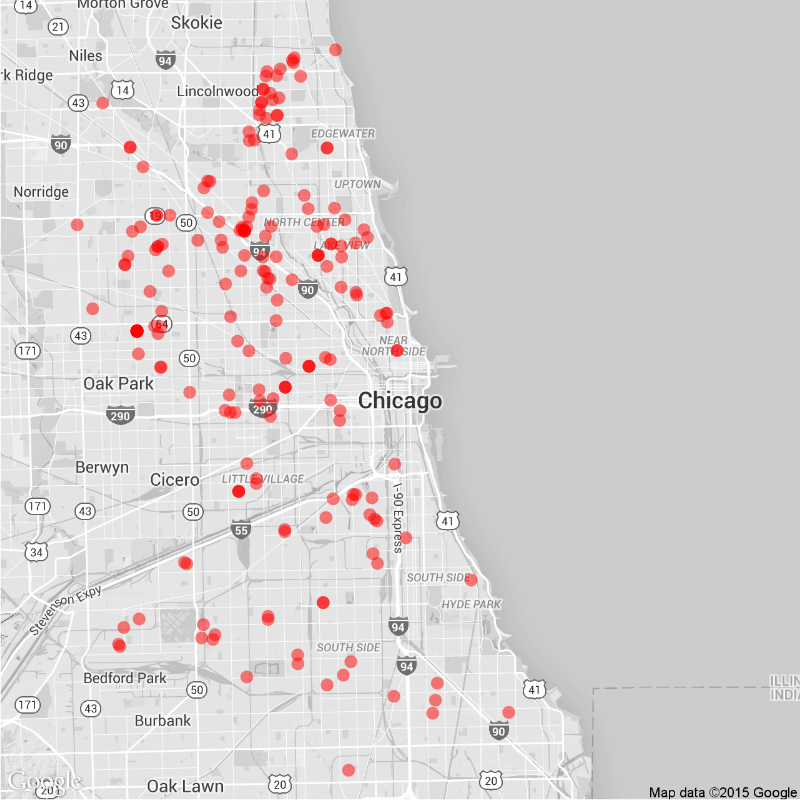
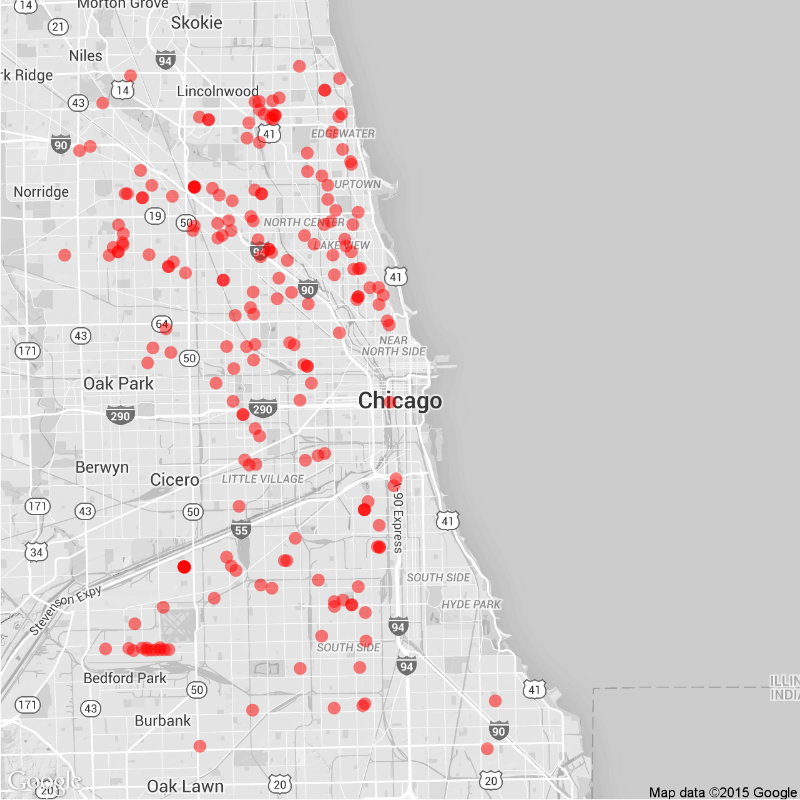
Daily Maps

diff --git a/daily.md b/daily.md
@@ -15,22 +15,22 @@ tags: Chicago NYC weekly daily rats
 
 ### Daily
 
-Yesterday (July 23), there were 201 calls to Chicago's 311 line about rats.
+Yesterday (July 24), there were 210 calls to Chicago's 311 line about rats.
 ![Chicago rat calls to 311 weekly map]({{ site.cityimages }}/daily/Chicago_Rat_Map_Daily.png)
 
 ### Weekly
-Between July 17 and July 23, there were 1070 calls to Chicago's 311 line about rats. The average number of weekly calls for this time of year is 910.
+Between July 18 and July 24, there were 1140 calls to Chicago's 311 line about rats. The average number of weekly calls for this time of year is 910.
 ![Chicago rat calls to 311 weekly map]({{ site.cityimages }}/daily/Chicago_Rat_Map_Weekly.png)
 ***
 # New York City <a id="nyc"><a>
 
 ### Daily
 
-Yesterday (July 23), there were 0 calls to New York City's 311 line about rats.
+Yesterday (July 24), there were 0 calls to New York City's 311 line about rats.
 ![NYC rat calls to 311 weekly map]({{ site.cityimages }}/daily/NYC_Rat_Map_Daily.png)
 
 ### Weekly
-Between July 17 and July 23, there were 0 calls to New York City's 311 line about rats. The average number of weekly calls for this time of year is 283.
+Between July 18 and July 24, there were 0 calls to New York City's 311 line about rats. The average number of weekly calls for this time of year is 283.
 ![NYC rat calls to 311 weekly map]({{ site.cityimages }}/daily/NYC_Rat_Map_Weekly.png)
 
 Each red dot represents one call about a rat seen in that location. The dots are transparent, so multiple calls from one location will be seen as a solid dot. The usual caveats apply: more calls do not necessarily mean that there are more rats in that location than other parts of the city. A cluster of dots could indicate that one resident is unusually vocal about rodents in his or her neighborhood. Also, more densely populated neighborhoods tend to make more calls to 311.
